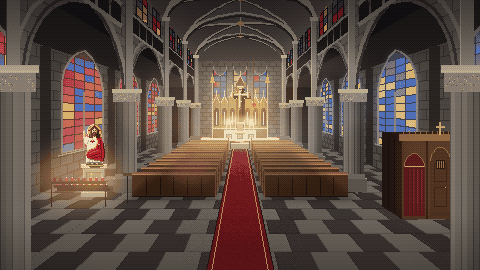
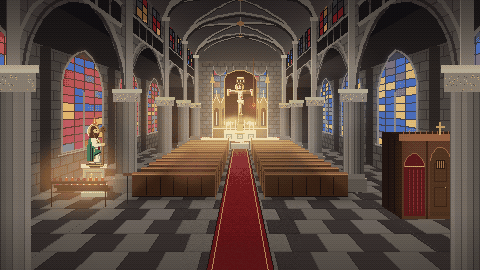
Church: Saint Jude replaces the Sacred Heart; detailed altar crucifix
Saint Jude, patron of lost causes, stands in profile at the votive rack with his
back to the aisle wall: green mantle, Pentecost flame, Christ medallion, book and
club. The altar crucifix is enlarged on a dark velvet hanging with a clear corpus
(crown of thorns, halo, INRI, loincloth, wounds). The candles look text names him.

diff --git a/tools/art/church.py b/tools/art/church.py
@@ -1004,6 +1004,96 @@ def pews(img):
     shadow(img, "polygon", [P(1.0, 0, 9.6), P(4.6, 0, 9.6), P(4.6, 0, RAIL_Z), P(1.0, 0, RAIL_Z)], 0.35, 3)
 
 
+def crucifix(img, cx, top, foot, ca, hw):
+    """The great crucifix over the high altar: a dark wooden cross with gilt terminals, and Christ upon it, his arms
+    along the beam and his hands nailed at its ends, the head crowned with thorns and bowed to his right under the INRI
+    title, a white loincloth, his feet crossed over one nail."""
+    d = ImageDraw.Draw(img)
+    # a dark velvet hanging behind the cross, so the pale corpus stands out against the gilt screen
+    bw = hw + 4
+    curve = arch_curve(cx - bw, cx + bw, top + 2, 0.5, 8, sq=0.6)
+    d.polygon([(cx - bw, foot - 4)] + curve + [(cx + bw, foot - 4)], fill=hx("2a0e10"))
+    d.line(curve, fill=hx("c8a050"))
+    d.line([(cx - bw, top + 2), (cx - bw, foot - 4)], fill=hx("c8a050"))
+    d.line([(cx + bw, top + 2), (cx + bw, foot - 4)], fill=hx("8a6a34"))
+    wood, edge, wood_d = hx("6a3a1c"), hx("c89a48"), hx("1a0c06")
+    gilt, gilt_l, gilt_d = hx("d8b050"), hx("fff4c0"), hx("6a4818")
+    d.rectangle([cx + 1, top + 2, cx + 4, foot + 2], fill=hx("1e100a"))
+    d.rectangle([cx - hw + 2, ca + 1, cx + hw + 2, ca + 4], fill=hx("1e100a"))
+    d.rectangle([cx - 2, top, cx + 2, foot], fill=wood)
+    d.rectangle([cx - hw, ca - 2, cx + hw, ca + 2], fill=wood)
+    d.line([(cx - 2, top), (cx - 2, foot)], fill=edge)
+    d.line([(cx + 2, top), (cx + 2, foot)], fill=wood_d)
+    d.line([(cx - hw, ca - 2), (cx + hw, ca - 2)], fill=edge)
+    d.line([(cx - hw, ca + 2), (cx + hw, ca + 2)], fill=wood_d)
+    for (tx, ty, vertical) in ((cx, top, True), (cx, foot, True), (cx - hw, ca, False), (cx + hw, ca, False)):
+        if vertical:
+            d.rectangle([tx - 3, ty - 1, tx + 3, ty + 1], fill=gilt)
+            d.line([(tx - 3, ty - 1), (tx + 2, ty - 1)], fill=gilt_l)
+            d.line([(tx - 2, ty + 1), (tx + 3, ty + 1)], fill=gilt_d)
+        else:
+            d.rectangle([tx - 1, ty - 3, tx + 1, ty + 3], fill=gilt)
+            d.line([(tx - 1, ty - 3), (tx - 1, ty + 2)], fill=gilt_l)
+            d.line([(tx + 1, ty - 2), (tx + 1, ty + 3)], fill=gilt_d)
+    SKIN, SKIN_L, SKIN_D, SKIN_DD = hx("e8c09c"), hx("fce4c8"), hx("a87454"), hx("6a4430")
+    HAIR, THORN, BLOOD = hx("3a2014"), hx("5a4a20"), hx("c01818")
+    CLOTH, CLOTH_D = hx("fcf8ee"), hx("b0a48c")
+    p = lambda ox, oy: (cx + ox, ca + oy)
+    # the INRI title nailed above his head
+    d.rectangle([cx - 4, ca - 13, cx + 4, ca - 10], fill=hx("f4ecd4"), outline=gilt_d)
+    for ox in (-2, -1, 1, 2):
+        d.point(p(ox, -12), fill=hx("2a1a10"))
+        d.point(p(ox, -11), fill=hx("2a1a10"))
+    # the gilt halo, and the head bowed to his right, crowned with thorns
+    d.ellipse([cx - 5, ca - 9, cx + 3, ca - 2], fill=gilt)
+    d.arc([cx - 5, ca - 9, cx + 3, ca - 2], 150, 260, fill=gilt_l)
+    d.ellipse([cx - 3, ca - 8, cx + 1, ca - 3], fill=HAIR)
+    d.ellipse([cx - 3, ca - 7, cx, ca - 3], fill=SKIN)
+    d.point(p(-3, -5), fill=SKIN_L)
+    d.point(p(-2, -5), fill=SKIN_DD)
+    d.point(p(0, -5), fill=SKIN_D)
+    d.line([p(-2, -3), p(0, -3)], fill=HAIR)
+    d.point(p(-1, -2), fill=HAIR)
+    d.line([p(1, -6), p(1, -3)], fill=HAIR)
+    d.line([p(-3, -7), p(1, -8)], fill=THORN)
+    for ox, oy in ((-3, -8), (-1, -9), (1, -9), (2, -7)):
+        d.point(p(ox, oy), fill=THORN)
+    d.point(p(-2, -6), fill=BLOOD)
+    d.line([p(-1, -2), p(0, -2)], fill=SKIN_D)
+    # the arms along the beam, lit from the left, the hands nailed at its ends
+    for s in (-1, 1):
+        lo = SKIN_D if s < 0 else SKIN_DD
+        d.line([p(2 * s, -1), p(s * (hw - 2), -2)], fill=SKIN if s < 0 else SKIN_D)
+        d.line([p(2 * s, 0), p(s * (hw - 3), -1)], fill=lo)
+        hx0 = cx + s * (hw - 2)
+        d.rectangle([min(hx0, hx0 + s), ca - 3, max(hx0, hx0 + s), ca - 1], fill=SKIN)
+        d.point((hx0 + s, ca - 2), fill=BLOOD)
+        d.point((hx0, ca), fill=BLOOD)
+    # the torso, ribs and the wound in his side
+    d.polygon([p(-2, -1), p(2, -1), p(2, 5), p(1, 8), p(-1, 8), p(-2, 5)], fill=SKIN)
+    d.line([p(-2, -1), p(-2, 5)], fill=SKIN_L)
+    d.line([p(2, 0), p(2, 5)], fill=SKIN_D)
+    d.line([p(1, 6), p(1, 8)], fill=SKIN_D)
+    for ox, oy in ((-1, 2), (1, 2), (0, 5)):
+        d.point(p(ox, oy), fill=SKIN_D)
+    d.point(p(1, 4), fill=BLOOD)
+    d.point(p(1, 5), fill=BLOOD)
+    # the white loincloth, knotted at his left hip
+    d.polygon([p(-3, 8), p(3, 8), p(2, 11), p(-2, 11)], fill=CLOTH)
+    d.line([p(-2, 11), p(2, 11)], fill=CLOTH_D)
+    d.line([p(3, 9), p(3, 12)], fill=CLOTH_D)
+    d.point(p(0, 10), fill=CLOTH_D)
+    # the legs, bent a little at the knee, and the feet crossed over a single nail on a gilt footrest
+    d.rectangle([cx - 1, ca + 12, cx + 1, ca + 19], fill=SKIN)
+    d.line([p(-1, 12), p(-1, 15)], fill=SKIN_L)
+    d.line([p(1, 12), p(1, 19)], fill=SKIN_D)
+    d.line([p(0, 16), p(0, 19)], fill=SKIN_D)
+    d.line([p(-1, 20), p(1, 21)], fill=SKIN)
+    d.line([p(1, 20), p(-1, 21)], fill=SKIN_D)
+    d.point(p(0, 21), fill=BLOOD)
+    d.line([p(-2, 22), p(2, 22)], fill=gilt)
+
+
 def sanctuary(img):
     d = ImageDraw.Draw(img)
     # reredos: a gilded Gothic screen with a great crucifix
@@ -1031,55 +1121,9 @@ def sanctuary(img):
     d.line([P(-rx, 1.6, z), P(rx, 1.6, z)], fill=hx("e8c870"))
     light(img, "polygon", [P(-rx, 0.45, z), P(-rx, 7.6, z), P(rx, 7.6, z), P(rx, 0.45, z)], hx("ffc060"), 0.28, 6)
     # the crucifix is painted over the screen's glow so the candlelight does not wash it out
-    cx, cy0 = P(0, 2.3, z)
-    _, cy1 = P(0, 6.4, z)
-    _, ca = P(0, 5.5, z)
-    cx, cy0, cy1, ca = round(cx), round(cy0), round(cy1), round(ca)
-    hw = round(0.8 * F / z) + 1
-    # the great crucifix: a dark wooden cross, gilt-edged where the candles catch its left and top faces,
-    # its four ends flared into gilt terminals, with an ivory corpus
-    wood, edge, wood_d = hx("4a2614"), hx("b88a38"), hx("100804")
-    gilt, gilt_l, gilt_d = hx("d8b050"), hx("fff4c0"), hx("6a4818")
-    d.rectangle([cx + 1, cy1 + 2, cx + 4, cy0 + 2], fill=hx("1e100a"))
-    d.rectangle([cx - hw + 2, ca + 2, cx + hw + 2, ca + 4], fill=hx("1e100a"))
-    d.rectangle([cx - 2, cy1, cx + 2, cy0], fill=wood)
-    d.rectangle([cx - hw, ca - 1, cx + hw, ca + 2], fill=wood)
-    d.line([(cx - 2, cy1), (cx - 2, cy0)], fill=edge)
-    d.line([(cx + 2, cy1), (cx + 2, ca - 2)], fill=wood_d)
-    d.line([(cx + 2, ca + 3), (cx + 2, cy0)], fill=wood_d)
-    d.line([(cx - hw, ca - 1), (cx - 3, ca - 1)], fill=edge)
-    d.line([(cx + 3, ca - 1), (cx + hw, ca - 1)], fill=edge)
-    d.line([(cx - hw, ca + 2), (cx - 3, ca + 2)], fill=wood_d)
-    d.line([(cx + 3, ca + 2), (cx + hw, ca + 2)], fill=wood_d)
-    for (tx, ty, vertical) in ((cx, cy1, True), (cx, cy0, True), (cx - hw, ca, False), (cx + hw, ca, False)):
-        if vertical:
-            d.rectangle([tx - 3, ty - 1, tx + 3, ty + 1], fill=gilt)
-            d.line([(tx - 3, ty - 1), (tx + 2, ty - 1)], fill=gilt_l)
-            d.line([(tx - 2, ty + 1), (tx + 3, ty + 1)], fill=gilt_d)
-        else:
-            d.rectangle([tx - 1, ty - 2, tx + 1, ty + 3], fill=gilt)
-            d.line([(tx - 1, ty - 2), (tx - 1, ty + 2)], fill=gilt_l)
-            d.line([(tx + 1, ty - 1), (tx + 1, ty + 3)], fill=gilt_d)
-    for ox, oy in ((-4, -3), (4, -3), (-4, 4), (4, 4)):
-        d.point((cx + ox, ca + oy), fill=gilt_l)
-    # the corpus: title board, bowed head with a gilt halo, arms along the beam, loincloth and crossed feet
-    ivory, ivory_d = hx("f4e6cc"), hx("9a7e62")
-    d.line([(cx - 1, ca - 6), (cx + 1, ca - 6)], fill=hx("fff8e8"))
-    d.point((cx - 1, ca - 4), fill=gilt)
-    d.point((cx + 1, ca - 4), fill=gilt_l)
-    d.point((cx, ca - 4), fill=gilt)
-    d.rectangle([cx - 1, ca - 3, cx, ca - 2], fill=ivory)
-    d.point((cx, ca - 2), fill=ivory_d)
-    d.line([(cx - hw + 2, ca), (cx + hw - 2, ca)], fill=ivory)
-    d.line([(cx + 2, ca + 1), (cx + hw - 2, ca + 1)], fill=ivory_d)
-    d.line([(cx - hw + 2, ca + 1), (cx - 2, ca + 1)], fill=ivory_d)
-    d.rectangle([cx - 1, ca - 1, cx, ca + 8], fill=ivory)
-    d.line([(cx, ca + 1), (cx, ca + 8)], fill=ivory_d)
-    d.line([(cx - 1, ca + 7), (cx + 1, ca + 7)], fill=hx("fffaf0"))
-    d.line([(cx - 1, ca + 9), (cx - 1, ca + 13)], fill=ivory)
-    d.line([(cx, ca + 9), (cx, ca + 12)], fill=ivory_d)
-    d.point((cx, ca + 14), fill=ivory_d)
-    d.point((cx - 1, ca + 15), fill=gilt)    # the high altar: white linen over marble, six tall candles
+    ca = round(P(0, 5.8, z)[1])
+    crucifix(img, round(P(0, 0, z)[0]), ca - 14, round(P(0, 2.0, z)[1]), ca, round(1.3 * F / z) + 1)
+    # the high altar: white linen over marble, six tall candles
     za = ALTAR_Z
     ax = 1.7
     d.polygon([P(-ax, 0.45, za), P(-ax, 1.45, za), P(ax, 1.45, za), P(ax, 0.45, za)], fill=hx("d8d0bc"))
@@ -1205,102 +1249,99 @@ def pedestal(img, p0, p1, s):
     d.line([(x0 - 2, y1 - 4), (x1 + 2, y1 - 4)], fill=hx("c0b6a2"))
 
 
-def sacred_heart(img, cx, top, foot):
-    """The Sacred Heart: Christ in a white tunic and a gold-hemmed red mantle, a cruciform halo behind his head,
-    his right hand raised in blessing and his left drawing the eye to the flaming heart on his breast."""
+def saint_jude(img, cx, top, foot):
+    """Saint Jude Thaddeus, patron of lost causes, in profile with his back to the aisle wall, looking across the nave:
+    a green mantle over a cream tunic, the tongue of Pentecost fire above his head, the face of Christ on a gold
+    medallion at his breast, a red book against his side and the club of his martyrdom held before him."""
     d = ImageDraw.Draw(img)
-    WHITE, WHITE_M, WHITE_D, WHITE_L = hx("e8dcc4"), hx("bcac94"), hx("8a7c6a"), hx("fff8ec")
-    RED, RED_L, RED_D, RED_DD = hx("a8282c"), hx("d85448"), hx("741820"), hx("461014")
+    CREAM, CREAM_M, CREAM_D, CREAM_L = hx("e8dcc0"), hx("bcac90"), hx("8a7c66"), hx("fff6e4")
+    GREEN, GREEN_L, GREEN_D, GREEN_DD = hx("2e7a44"), hx("5aa866"), hx("1c5230"), hx("0e2c1a")
     GOLD, GOLD_L, GOLD_D = hx("d8a848"), hx("ffe090"), hx("a07830")
     SKIN, SKIN_D = hx("e8b898"), hx("b07c64")
-    HAIR, HAIR_D, HAIR_L = hx("6a4024"), hx("3e2414"), hx("9a6a40")
+    HAIR, HAIR_D, HAIR_L = hx("5a3820"), hx("34200e"), hx("8a6038")
+    WOOD, WOOD_L, WOOD_D = hx("7a4c2a"), hx("a8784a"), hx("3e2412")
     y = lambda k: top + k
-    # a gilt halo with the arms of the cross showing round the head
-    d.ellipse([cx - 7, y(-2), cx + 7, y(12)], fill=GOLD_D)
-    d.ellipse([cx - 6, y(-1), cx + 6, y(11)], fill=GOLD)
-    d.arc([cx - 7, y(-2), cx + 7, y(12)], 140, 260, fill=GOLD_L)
-    for (ax, ay, bx, by) in ((cx - 6, y(4), cx - 4, y(4)), (cx + 4, y(4), cx + 6, y(4)), (cx, y(-1), cx, y(0))):
-        d.line([(ax, ay), (bx, by)], fill=hx("b02a2a"))
-    # the white tunic, from the shoulders to the hem
-    d.polygon([(cx - 5, y(11)), (cx + 5, y(11)), (cx + 7, y(16)), (cx + 8, y(36)), (cx - 8, y(36)), (cx - 7, y(16))],
-              fill=WHITE)
-    d.line([(cx - 7, y(16)), (cx - 8, y(36))], fill=WHITE_L)
-    for fx in (-4, -1, 2):
-        d.line([(cx + fx, y(30)), (cx + fx + (1 if fx > 0 else -1), y(36))], fill=WHITE_M)
-    d.line([(cx - 3, y(31)), (cx - 4, y(36))], fill=WHITE_L)
-    # the red mantle: over his left shoulder, down his side and wrapped across the hips
-    d.polygon([(cx + 2, y(10)), (cx + 6, y(11)), (cx + 9, y(17)), (cx + 10, y(29)), (cx + 9, y(35)), (cx + 2, y(34)),
-               (cx - 6, y(32)), (cx - 9, y(28)), (cx - 7, y(24)), (cx + 1, y(21)), (cx + 3, y(16))], fill=RED)
-    # candlelight from the left: the folds across the hips lit, the far side in shadow
-    d.line([(cx - 8, y(28)), (cx - 6, y(25)), (cx + 1, y(22))], fill=RED_L)
-    d.line([(cx - 5, y(27)), (cx + 3, y(24))], fill=RED_L)
-    d.line([(cx - 4, y(30)), (cx + 5, y(27))], fill=RED_D)
-    d.line([(cx + 9, y(17)), (cx + 10, y(29)), (cx + 9, y(35))], fill=RED_DD)
-    d.line([(cx + 6, y(14)), (cx + 7, y(32))], fill=RED_D)
-    d.line([(cx + 4, y(18)), (cx + 4, y(22))], fill=RED_D)
-    d.line([(cx - 2, y(32)), (cx + 6, y(30))], fill=RED_D)
-    # the gold hem along the mantle's edges
-    d.line([(cx - 9, y(28)), (cx - 7, y(24)), (cx + 1, y(21)), (cx + 3, y(16)), (cx + 2, y(10))], fill=GOLD)
-    d.line([(cx - 6, y(32)), (cx + 2, y(34)), (cx + 9, y(35))], fill=GOLD_D)
-    # the tunic's hem below the mantle, and his bare feet on the little gilt base
-    d.line([(cx - 7, y(36)), (cx + 7, y(36))], fill=WHITE_D)
+    # the tongue of fire burning above his head
+    d.polygon([(cx - 2, y(-3)), (cx + 2, y(-3)), (cx + 1, y(-6)), (cx, y(-9)), (cx - 1, y(-6))], fill=hx("f07818"))
+    d.line([(cx, y(-7)), (cx, y(-4))], fill=hx("ffd060"))
+    d.point((cx, y(-4)), fill=hx("fff8d0"))
+    # a plain gilt halo behind the back of his head
+    d.ellipse([cx - 7, y(-2), cx + 5, y(12)], fill=GOLD_D)
+    d.ellipse([cx - 6, y(-1), cx + 4, y(11)], fill=GOLD)
+    d.arc([cx - 7, y(-2), cx + 5, y(12)], 140, 260, fill=GOLD_L)
+    # the cream tunic in profile, the chest towards the nave
+    d.polygon([(cx - 4, y(11)), (cx + 3, y(11)), (cx + 5, y(15)), (cx + 5, y(24)), (cx + 6, y(36)), (cx - 5, y(36)),
+               (cx - 5, y(16))], fill=CREAM)
+    d.line([(cx + 5, y(15)), (cx + 5, y(24)), (cx + 6, y(36))], fill=CREAM_D)
+    for fx in (1, 4):
+        d.line([(cx + fx, y(29)), (cx + fx + 1, y(36))], fill=CREAM_M)
+    d.line([(cx + 2, y(30)), (cx + 2, y(36))], fill=CREAM_L)
+    # the green mantle over his shoulder and down his back, a fold caught forward across the waist
+    d.polygon([(cx - 4, y(11)), (cx + 1, y(11)), (cx + 2, y(17)), (cx, y(28)), (cx - 1, y(35)), (cx - 7, y(35)),
+               (cx - 7, y(22)), (cx - 6, y(15))], fill=GREEN)
+    d.polygon([(cx - 1, y(25)), (cx + 5, y(22)), (cx + 6, y(26)), (cx, y(30))], fill=GREEN)
+    # candlelight from the wall side: the back and shoulder lit, the folds towards the nave in shadow
+    d.line([(cx - 6, y(15)), (cx - 7, y(22)), (cx - 7, y(35))], fill=GREEN_L)
+    d.line([(cx - 4, y(11)), (cx - 6, y(15))], fill=GREEN_L)
+    d.line([(cx - 4, y(18)), (cx - 4, y(34))], fill=GREEN_D)
+    d.line([(cx - 2, y(22)), (cx - 2, y(34))], fill=GREEN_DD)
+    d.line([(cx, y(29)), (cx + 6, y(26))], fill=GREEN_DD)
+    d.line([(cx - 1, y(25)), (cx + 5, y(22))], fill=GREEN_L)
+    # the gold hem along the mantle's front edge and foot
+    d.line([(cx + 1, y(11)), (cx + 2, y(17)), (cx, y(25))], fill=GOLD)
+    d.line([(cx, y(30)), (cx - 1, y(35))], fill=GOLD_D)
+    d.line([(cx - 7, y(35)), (cx - 1, y(35))], fill=GOLD_D)
+    # the tunic's hem, and his bare feet, one forward, on the little gilt base
+    d.line([(cx, y(36)), (cx + 6, y(36))], fill=CREAM_D)
     d.ellipse([cx - 9, y(37), cx + 9, y(41)], fill=hx("6a5a3a"))
     d.arc([cx - 9, y(37), cx + 9, y(41)], 0, 180, fill=GOLD_D)
     d.arc([cx - 9, y(37), cx + 9, y(41)], 120, 190, fill=GOLD_L)
     d.line([(cx - 8, y(39)), (cx + 8, y(39))], fill=GOLD)
-    for fx in (-3, 2):
-        d.line([(cx + fx, y(37)), (cx + fx + 1, y(37))], fill=SKIN)
-        d.point((cx + fx + 1, y(38)), fill=SKIN_D)
-    # his right hand raised in blessing, the wide sleeve falling back from the wrist
-    d.polygon([(cx - 5, y(11)), (cx - 8, y(10)), (cx - 10, y(12)), (cx - 10, y(16)), (cx - 7, y(19)), (cx - 6, y(15))],
-              fill=WHITE)
-    d.line([(cx - 10, y(12)), (cx - 10, y(16))], fill=WHITE_L)
-    d.line([(cx - 7, y(17)), (cx - 6, y(14))], fill=WHITE_M)
-    d.rectangle([cx - 11, y(7), cx - 9, y(10)], fill=SKIN)
-    d.line([(cx - 11, y(5)), (cx - 11, y(6))], fill=hx("f4ccb0"))
-    d.line([(cx - 10, y(4)), (cx - 10, y(6))], fill=SKIN)
-    d.line([(cx - 9, y(8)), (cx - 9, y(10))], fill=SKIN_D)
-    d.point((cx - 8, y(8)), fill=SKIN)
-    d.line([(cx - 11, y(11)), (cx - 8, y(11))], fill=WHITE_L)
-    # his left hand at his side, turned to point at the heart
-    d.line([(cx + 4, y(18)), (cx + 2, y(17))], fill=SKIN)
-    d.point((cx + 5, y(18)), fill=WHITE_M)
-    # the Sacred Heart: crowned with thorns, a flame and a small cross rising from it, rays around it
-    hx0, hy0 = cx - 2, y(14)
-    for (ox, oy) in ((-2, -1), (2, -1), (-3, 1), (3, 1), (0, -3), (-2, 4), (2, 4)):
-        d.point((hx0 + ox, hy0 + oy), fill=GOLD_L)
-    d.point((hx0 - 1, hy0), fill=hx("e03030"))
-    d.point((hx0 + 1, hy0), fill=hx("c02028"))
-    d.line([(hx0 - 1, hy0 + 1), (hx0 + 1, hy0 + 1)], fill=hx("c02028"))
-    d.point((hx0, hy0 + 2), fill=hx("901820"))
-    d.point((hx0 - 1, hy0), fill=hx("ff6050"))
-    d.point((hx0 - 2, hy0 + 1), fill=hx("2e4a22"))
-    d.point((hx0 + 2, hy0 + 1), fill=hx("2e4a22"))
-    d.point((hx0, hy0 - 1), fill=hx("ffb040"))
-    d.point((hx0, hy0 - 2), fill=GOLD)
-    # long hair parted in the middle and falling to the shoulders
-    d.ellipse([cx - 4, y(0), cx + 4, y(9)], fill=HAIR)
-    d.polygon([(cx - 4, y(4)), (cx - 5, y(11)), (cx - 2, y(11)), (cx - 2, y(6))], fill=HAIR)
-    d.polygon([(cx + 4, y(4)), (cx + 5, y(11)), (cx + 2, y(11)), (cx + 2, y(6))], fill=HAIR_D)
-    d.line([(cx - 4, y(4)), (cx - 4, y(10))], fill=HAIR_L)
-    d.point((cx, y(0)), fill=HAIR_D)
-    # the face, a short forked beard, and the eyes looking down to whoever kneels at the rack
-    d.ellipse([cx - 2, y(2), cx + 2, y(8)], fill=SKIN)
-    d.line([(cx + 2, y(4)), (cx + 2, y(6))], fill=SKIN_D)
-    d.point((cx - 1, y(4)), fill=hx("5a3626"))
-    d.point((cx + 1, y(4)), fill=hx("5a3626"))
-    d.point((cx, y(5)), fill=SKIN_D)
-    d.point((cx - 2, y(4)), fill=hx("fff0e0"))
-    d.line([(cx - 1, y(6)), (cx + 1, y(6))], fill=HAIR)
-    d.polygon([(cx - 2, y(7)), (cx + 2, y(7)), (cx + 1, y(9)), (cx, y(10)), (cx - 1, y(9))], fill=HAIR)
-    d.point((cx, y(7)), fill=hx("a85a50"))
-    d.point((cx - 1, y(8)), fill=HAIR_L)
-    d.point((cx + 1, y(8)), fill=HAIR_D)
+    d.line([(cx + 2, y(37)), (cx + 6, y(37))], fill=SKIN)
+    d.point((cx + 6, y(38)), fill=SKIN_D)
+    d.line([(cx - 3, y(37)), (cx, y(37))], fill=SKIN_D)
+    # the gold medallion with the face of Christ, on his breast
+    d.ellipse([cx + 3, y(13), cx + 6, y(18)], fill=GOLD, outline=GOLD_D)
+    d.point((cx + 4, y(14)), fill=GOLD_L)
+    d.point((cx + 4, y(15)), fill=SKIN)
+    d.point((cx + 4, y(16)), fill=HAIR_D)
+    # the red book held against his far side, its corner showing before his waist
+    d.rectangle([cx + 4, y(19), cx + 6, y(23)], fill=hx("7a1c1c"))
+    d.line([(cx + 6, y(19)), (cx + 6, y(23))], fill=CREAM_M)
+    # the club standing before him, its knotted head at his brow
+    d.rectangle([cx + 8, y(6), cx + 9, y(38)], fill=WOOD)
+    d.line([(cx + 8, y(6)), (cx + 8, y(38))], fill=WOOD_L)
+    d.ellipse([cx + 6, y(0), cx + 11, y(6)], fill=WOOD)
+    d.arc([cx + 6, y(0), cx + 11, y(6)], 150, 260, fill=WOOD_L)
+    d.point((cx + 10, y(4)), fill=WOOD_D)
+    d.point((cx + 9, y(2)), fill=WOOD_D)
+    # his near arm, the sleeve falling from the shoulder and the hand reaching forward round the club
+    d.polygon([(cx - 3, y(12)), (cx + 1, y(12)), (cx + 2, y(17)), (cx + 7, y(17)), (cx + 7, y(20)), (cx + 1, y(21)),
+               (cx - 2, y(19))], fill=CREAM)
+    d.line([(cx - 3, y(12)), (cx - 2, y(19))], fill=CREAM_L)
+    d.line([(cx + 1, y(21)), (cx + 7, y(20))], fill=CREAM_D)
+    d.line([(cx + 2, y(17)), (cx + 6, y(17))], fill=CREAM_M)
+    d.rectangle([cx + 7, y(17), cx + 10, y(19)], fill=SKIN)
+    d.point((cx + 10, y(19)), fill=SKIN_D)
+    # hair falling down the back of his neck, the profile of his face and a full beard towards the nave
+    d.ellipse([cx - 4, y(0), cx + 2, y(9)], fill=HAIR)
+    d.polygon([(cx - 4, y(4)), (cx - 5, y(11)), (cx - 1, y(11)), (cx, y(6))], fill=HAIR)
+    d.line([(cx - 4, y(3)), (cx - 5, y(10))], fill=HAIR_L)
+    d.ellipse([cx - 1, y(2), cx + 3, y(8)], fill=SKIN)
+    d.point((cx + 4, y(5)), fill=SKIN)
+    d.point((cx + 4, y(6)), fill=SKIN_D)
+    d.line([(cx - 1, y(1)), (cx + 2, y(2))], fill=HAIR)
+    d.point((cx + 2, y(4)), fill=hx("4a2a1a"))
+    d.point((cx - 1, y(5)), fill=SKIN_D)
+    d.polygon([(cx - 1, y(6)), (cx + 4, y(7)), (cx + 4, y(9)), (cx + 2, y(12)), (cx, y(11)), (cx - 1, y(9))], fill=HAIR)
+    d.line([(cx - 1, y(7)), (cx, y(11))], fill=HAIR_L)
+    d.point((cx + 3, y(7)), fill=hx("a85a50"))
+    d.point((cx + 3, y(10)), fill=HAIR_D)
 
 
 def votives(img):
     d = ImageDraw.Draw(img)
-    # the Sacred Heart on a pedestal, the votive rack burning at his feet
+    # Saint Jude on a pedestal, the votive rack burning at his feet
     sx, sz = -6.1, 10.0
     s = F / sz
     p0 = P(sx - 0.45, 1.25, sz)
@@ -1332,7 +1373,7 @@ def votives(img):
     light(img, "ellipse", [g0[0] - 18, g0[1] - 30, g1[0] + 18, g1[1] + 14], hx("ffa040"), 0.45, 10)
     light(img, "ellipse", [head[0] - 22, head[1] - 10, head[0] + 22, feet[1] + 30], hx("ffb060"), 0.22, 10)
     # painted after the glow, in colours already warmed by it, so the candlelight does not bleach him
-    sacred_heart(img, round(head[0]), round(head[1]), round(feet[1]))
+    saint_jude(img, round(head[0]), round(head[1]), round(feet[1]))
     stand = P(-4.3, 0, 9.2)
     top = P(-4.3, 1.1, 9.2)
     d.line([stand, top], fill=hx("2a2220"))
@@ -1394,7 +1435,9 @@ def build():
     interior = paint_interior()
     exterior = paint_exterior()
     statue = interior.crop((80, 116, 108, 200))
-    save(pixelize(interior, palette_of(interior, 128) + palette_of(statue, 12)), "rooms", "church_interior.png")
+    cross = interior.crop((224, 74, 256, 128))
+    save(pixelize(interior, palette_of(interior, 128) + palette_of(statue, 12) + palette_of(cross, 8)),
+         "rooms", "church_interior.png")
     statues = Image.new("RGB", (60, 56))
     statues.paste(exterior.crop((158, 124, 188, 180)), (0, 0))
     statues.paste(exterior.crop((298, 124, 328, 180)), (30, 0))
